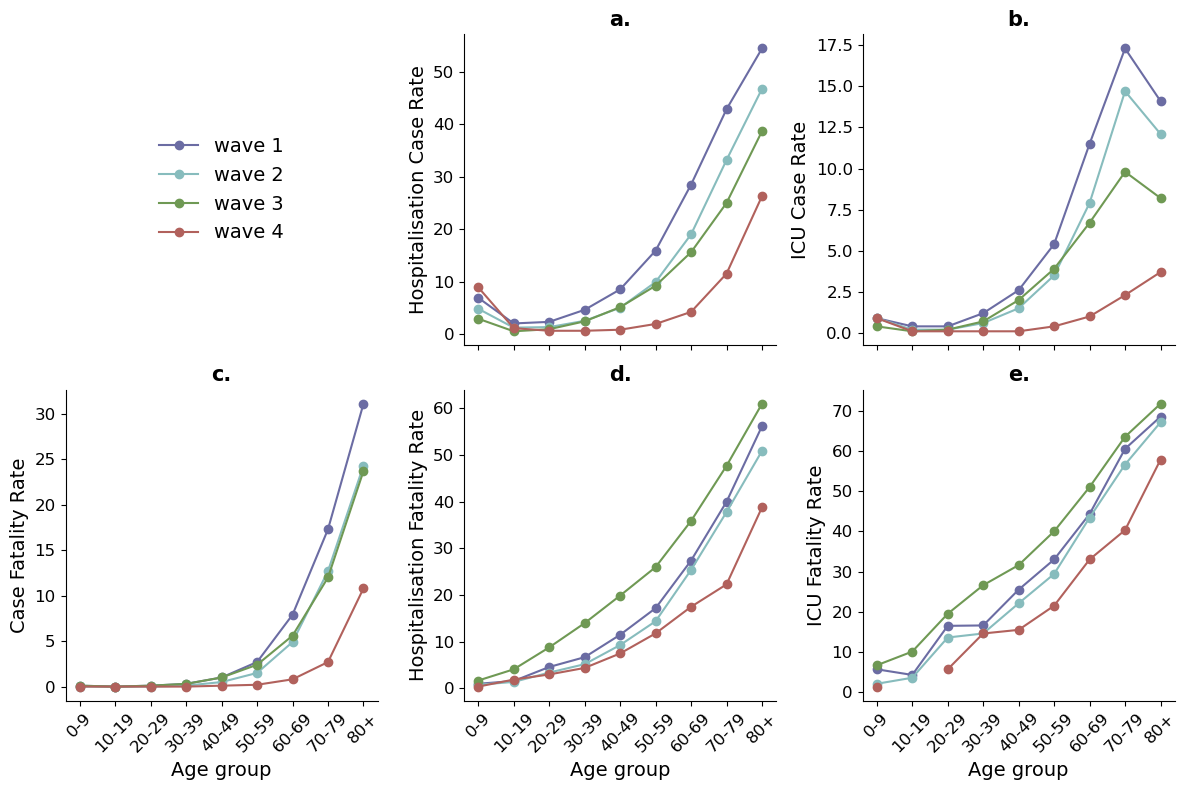
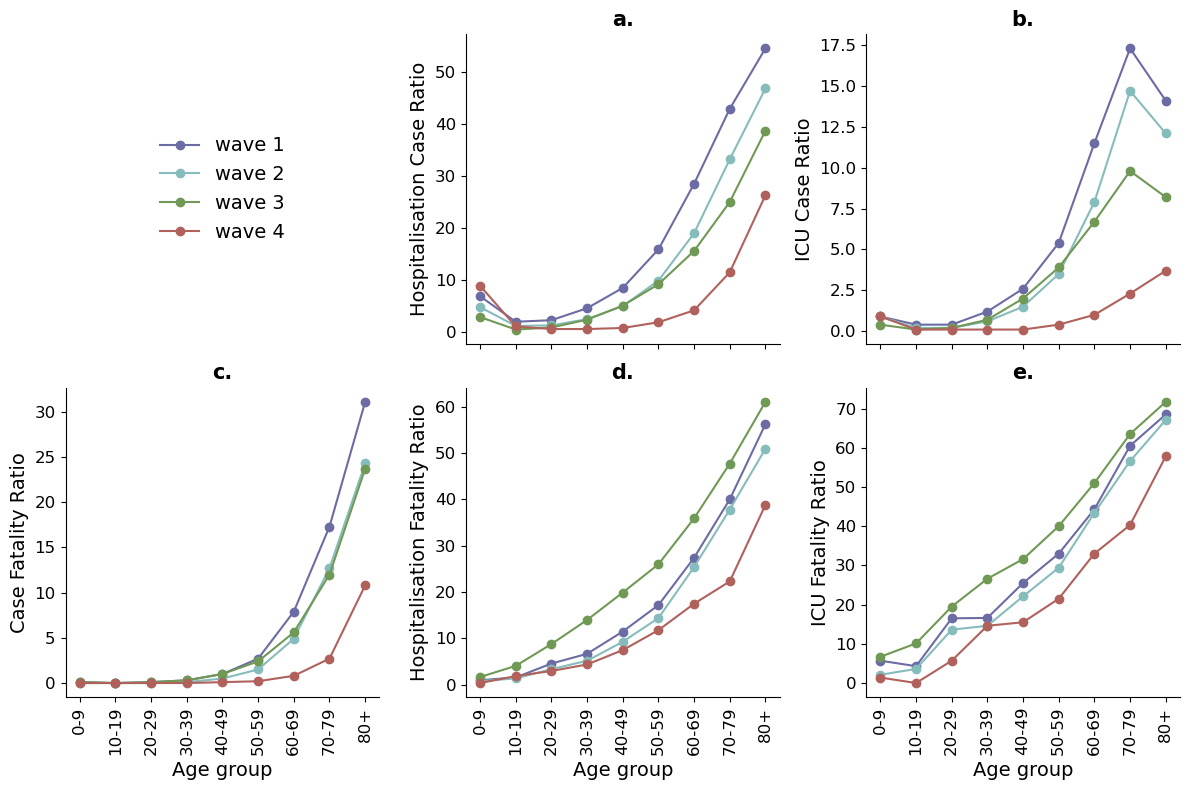
fix: changed rate->ratio, added missing point on ratio plots

diff --git a/plots/figure_4.py b/plots/figure_4.py
@@ -34,11 +34,11 @@ handles, labels = ax[1][1].get_legend_handles_labels()
 ax[0][0].legend(handles, labels, loc='center')
 ax[0][0].axis('off')
 
-ax[0][1].tick_params(axis='x', rotation=45)
-ax[0][2].tick_params(axis='x', rotation=45)
-ax[1][0].tick_params(axis='x', rotation=45)
-ax[1][1].tick_params(axis='x', rotation=45)
-ax[1][2].tick_params(axis='x', rotation=45)
+ax[0][1].tick_params(axis='x', rotation=90)
+ax[0][2].tick_params(axis='x', rotation=90)
+ax[1][0].tick_params(axis='x', rotation=90)
+ax[1][1].tick_params(axis='x', rotation=90)
+ax[1][2].tick_params(axis='x', rotation=90)
 
 ax[0][1].set_title('a.')
 ax[0][2].set_title('b.')
@@ -52,10 +52,10 @@ ax[1][0].set_xlabel('Age group')
 ax[1][1].set_xlabel('Age group')
 ax[1][2].set_xlabel('Age group')
 
-ax[0][1].set_ylabel('Hospitalisation Case Rate')
-ax[0][2].set_ylabel('ICU Case Rate')
-ax[1][0].set_ylabel('Case Fatality Rate')
-ax[1][1].set_ylabel('Hospitalisation Fatality Rate')
-ax[1][2].set_ylabel('ICU Fatality Rate')
+ax[0][1].set_ylabel('Hospitalisation Case Ratio')
+ax[0][2].set_ylabel('ICU Case Ratio')
+ax[1][0].set_ylabel('Case Fatality Ratio')
+ax[1][1].set_ylabel('Hospitalisation Fatality Ratio')
+ax[1][2].set_ylabel('ICU Fatality Ratio')
 
 fig.savefig(FIG_PATH + 'figure_4.png')

diff --git a/severe_outcomes/scripts/rates.py b/severe_outcomes/scripts/rates.py
@@ -85,5 +85,8 @@ cases_wave['HCR'] =  (cases_wave.hosp / cases_wave.cases * 100).round(1)
 cases_wave['HCR_I'] =  (cases_wave.icu / cases_wave.cases * 100).round(1)
 cases_wave['HFR'] =  (cases_wave.hosp_death / cases_wave.hosp * 100).round(1)
 cases_wave['HFR_I'] =  (cases_wave.icu_death / cases_wave.icu * 100).round(1)
+rates = ['CFR', 'HCR', 'HCR_I', 'HFR', 'HFR_I']
+for col in rates:
+    cases_wave[col] = cases_wave[col].fillna(0)
 
 cases_wave.to_csv(OUT_PATH + 'rates.csv', index = False)
